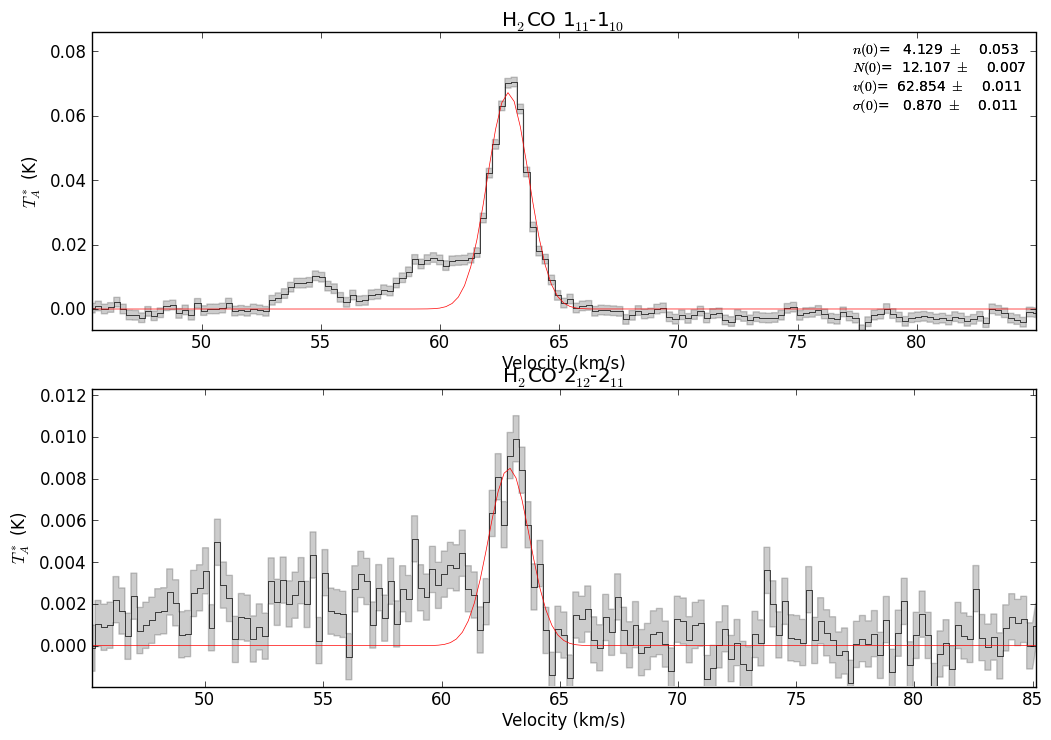
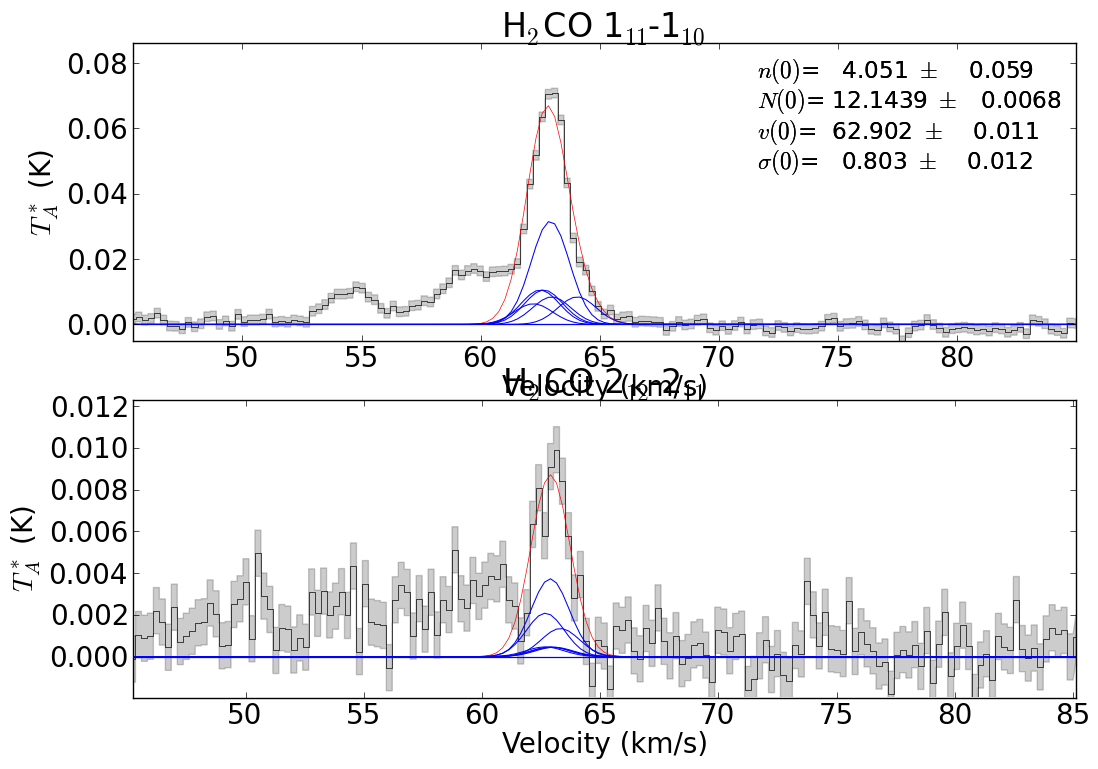
last draft of thesis?  Still need to fix major ?? bug with s233irmulti & other h2co plots

Changed region(s): [[0.0, 0.0, 1.0, 0.9946], [0.0, 0.1865, 0.1218, 0.373]]

diff --git a/h2co_lowdens.tex b/h2co_lowdens.tex
@@ -3,22 +3,22 @@
 In \citet{Ginsburg2011a}, we noted that the \formaldehyde densitometer revealed
 volume densities much higher than expected given the cloud-average densities
 from \thirteenco observations.  The densities were higher even than typical
-turbulence.  However, this argument was made on the basis of a statistical argument;
-here we attempt to demonstrate that the clumps in GMCs are of very high density
-in individual clouds.
+turbulence will allow.  However, this argument was made on the basis of a
+statistical argument; here we attempt to demonstrate that the clumps in GMCs
+are of very high density in individual clouds.
 
 In order to detect low-column-density clouds, we must use bright background
 illumination sources at 2 and 6 cm, i.e. HII regions.  There are a few dozen of
 these within the inner Galactic plane, including the sources observed in
 \citet{Ginsburg2011a} and the majority of the bright sources in the BGPS
-\citep{Ginsburg2012}.
+\citep{Ginsburg2013}.
 
 As an example case-study, we examine G43.17+0.01, also known as W49.  In the
 large survey, we observed two lines of sight towards W49, the second at
 G43.16-0.03.  Both are very bright continuum sources, and two GMCs are easily
 detected in \formaldehyde absorption and \thirteenco emission.  Figure
 \ref{fig:w49fullspec} shows the spectrum dominated by W49 itself, but with
-clear absorption components.  The continuum level subtracted from the spectra
+clear foreground absorption components.  The continuum level subtracted from the spectra
 are 73 K at 6 cm and 11 K at 2 cm for the south component, and 194 K at 6 cm
 and 28 K at 2 cm for the north component.
 
@@ -31,22 +31,23 @@ spectrum is offset by 1 K for clarity.  The GBT \twotwo spectra are multiplied
 by a factor of 9 so the smaller lines can be seen.
 }{fig:w49fullspec}{1}
 
-We focus on the ``foreground'' lines at $\sim40 \kms$ and $\sim65 \kms$, since
+We focus on the ``foreground'' lines at $\sim40$ \kms and $\sim65$ \kms, since
 they are not associated with the extremely massive W49 region.  It is difficult
 to assess the level of star formation within these clouds, since they lie
 directly along the line of sight to W49, but additional \formaldehyde spectra
 of the surrounding sources that are bright at 8-1100 \um show that they are all
-at the velocity of W49.  
+at the velocity of W49 and therefore are not associated with these foreground
+clouds.  
 
 The 40 \kms cloud is observed in its outskirts, not at the peak of the
 \thirteenco emission.  The cloud structure is vast, spanning $\sim0.6\degrees$, 
 or $\sim60$ pc at $D=2.8$ kpc \citep{Roman-Duval2009a}.  It is detected in \oneone
-absorption at all 6 locations observed in \formaldehyde, but \twotwo is only
-detected in front of the W49 HII region because of the higher signal-to-noise at
-that location.  The detected \thirteenco and \formaldehyde lines are fairly
-narrow, with \formaldehyde FWHM $\sim1.3$-$2.8$ \kms and \thirteenco widths
-from 1.8-5.9 \kms.  The \thirteenco lines are 50\% wider than the \formaldehyde
-lines.
+absorption at all 6 locations observed in \formaldehyde (Figure
+\ref{fig:40kmscloud}), but \twotwo is only detected in front of the W49 HII
+region because of the higher signal-to-noise at that location.  The detected
+\thirteenco and \formaldehyde lines are fairly narrow, with \formaldehyde FWHM
+$\sim1.3$-$2.8$ \kms and \thirteenco widths from 1.8-5.9 \kms.  The \thirteenco
+lines are 50\% wider than the \formaldehyde lines.
 
 The highest \thirteenco contours are observed as a modest IRDC, but no dust
 emission peaks are observed at 500 \um or 1.1 mm.  This is an indication that
@@ -70,14 +71,14 @@ optical depth infrared dark cloud associated with this GMC.}
 
 The \formaldehyde densitometer measurements are shown in Figure \ref{fig:h2codensg43}.
 The figures show optical depth spectra, given by the equation
-$$\tau = -\log\left(\frac{S_\nu + 2.73}{\bar{S_\nu} + 2.73}\right)$$
-where $S_\nu$ is the spectrum (with continuum included) and $\bar{S_\nu}$ is
+$$\tau = -\log\left(\frac{S_\nu + 2.73}{\bar{C_\nu} + 2.73}\right)$$
+where $S_\nu$ is the spectrum (with continuum included) and $\bar{C_\nu}$ is
 the measured continuum.
 
 \FigureTwo{figures_chH2CO/G43.16-0.03_40kms_h2codensfit.png}
 {figures_chH2CO/G43.17+0.01_40kms_h2codensfit.png}
 {Optical depth spectra of the \oneone and \twotwo lines towards the two W49
-lines of sight.  The fitted parameters, along with the statistical 1-$\sigma$
+lines of sight, G43.16 (left) and G43.17 (right).  The fitted parameters, along with the statistical 1-$\sigma$
 errors, are shown in the legend.  The optical depth ratio falls in a regime
 where temperature has very little effect and there is no degeneracy between low
 and high densities \citep[see Figure 2 of][]{Ginsburg2011a}.  For the right line,
@@ -86,11 +87,12 @@ the density distribution, the measured density remains unchanged \citep[see
 Figure 3 of][]{Ginsburg2011a}.}
 {fig:h2codensg43}{1}
 
-The density measurements are very precise, with $n\approx2.11\times10^4 \pm
-0.17\ee{4}$ \percc and $n\approx 1.98\times10^4 \pm 0.32\ee{4}$ \percc for
+The density measurements are very precise, with $n\approx1.56\times10^4 \pm
+0.14\ee{4}$ \percc and $n\approx 1.98\times10^4 \pm 0.32\ee{4}$ \percc for
 G43.17+0.01 and G43.16-0.03 respectively.  At this level of precision, the 
 density measurements are dominated by systematics - especially gas temperature
-and collision rate uncertainties - which limit the accuracy to $\sim50\%$
+and collision rate uncertainties - which limit the accuracy to $\sim50\%$ using
+the \citet{Green1991} rates
 \citep{Zeiger2010}.  Nonetheless, the density is much higher than the
 \thirteenco-measured cloud-average density $n\approx 400$ \percc
 \citep[for cloud GRSMC\_G043.04-00.11;][]{Roman-Duval2010a}, with
@@ -98,7 +100,7 @@ $n_{\formaldehyde}/n_{\thirteenco} \approx 50$.
 
 Since the W49 line of sight is clearly on the outskirts of the cloud, not
 through its core, such a high density is unlikely to be an indication that
-this line of sight corresponds to a centrally condensed density peak.  Using
+this line of sight corresponds to a centrally condensed density peak (e.g., a core).  Using
 Figure 4 of \citet{Ginsburg2011a}, we can `turbulence-correct' the density
 measurements, but even in the most extreme case with a turbulent density
 distribution lognormal width $\sigma_s = 1.5$, the correction is only a factor
@@ -164,5 +166,5 @@ the gas above $n>10^4$ \percc is not in free-fall.
 % functions of column density that have recently become popular
 % \citep[e.g][]{Kainulainen2009}.
 
-\input{solobib}
+%\input{solobib}
 \end{document}

diff --git a/h2co_maps.tex b/h2co_maps.tex
@@ -1,4 +1,4 @@
-%\input{preface}
+\input{preface}
 \section{\formaldehyde Mapping}
 We were lucky enough to be awarded \emph{double} the time we asked for on the GBT,
 allowing us to observe large areas in mapping mode.  
@@ -47,7 +47,7 @@ S233IR, but its neighboring region G173.58+2.45 is also a well-studied proto-clu
 Unlike S233IR, which has a B1/B2 10 \msun star that is probably still accreting,
 G173.58 contains no massive stars and has an upper mass limit $M\lesssim4 \msun$
 \citep{Shepherd2002}.  The \formaldehyde observations reveal that the density in this
-clump is $\sim10^{3.6} \percc$, substantially less than the expected $n\sim10^5 \percc$
+clump is $\sim10^{3.6}$ \percc, substantially less than the expected $n\sim10^5$ \percc
 in the massive-star forming S233IR.
 
 The BGPS data show this difference as well, but less strikingly.  In the BGPS
@@ -77,19 +77,19 @@ to be flawed.
 
 \Figure{figures_chH2CO/S233IR_multipanel}
 {The S233IR / IRAS 05358+3543 region and its neighbor G173.58+2.45.
-{\it Top left:} The \formaldehyde density map covering densities
+\textit{Top left:} The \formaldehyde density map covering densities
 $10^2 \percc<n<10^5 \percc$ from grey to green.  The grey areas show
 regions of low density ($n<10^3$ \percc), while green show high-density
-regions ($n\gtrsim10^3.5$ \percc).  The `hole' at the peak of the contours
+regions ($n\gtrsim10^{3.5}$ \percc).  The `hole' at the peak of the contours
 is likely very high density, $n>10^5$ \percc.
-{\it Top center: } The \formaldehyde \oneone absorption map.
-{\it Top right: } The \formaldehyde \twotwo absorption map.
+\textit{Top center: } The \formaldehyde \oneone absorption map.
+\textit{Top right: } The \formaldehyde \twotwo absorption map.
 Note the lack of absorption at the contour peak: this is probably \twotwo emission
 filling in \twotwo absorption, indicating a high $n\gtrsim10^5$ \percc density.
-{\it Bottom left: } CO 3-2 map.
-{\it Bottom center: } The BGPS v2.0 1.1 mm emission map, with contours at 0.2, 1.0, and 3.0 Jy.
+\textit{Bottom left: } CO 3-2 peak line brightness map.
+\textit{Bottom center: } The BGPS v2.0 1.1 mm emission map, with contours at 0.2, 1.0, and 3.0 Jy.
 These contours are shown on all of the other maps for reference.
-{\it Bottom right: } SO $5_6-4_5$ map.  This line has a very high critical density $n\sim3.5\ee{6}$ \percc
+\textit{Bottom right: } SO $5_6-4_5$ map.  This line has a very high critical density $n\sim3.5\ee{6}$ \percc
 and an upper level energy $T_U=35$ K.
 Its morphology, with a hole at the peak of the dust emission, backs the claim that the density is highest
 in the area around the dust peak.}
@@ -104,7 +104,7 @@ continuum emission, so no truly suitable `off' position was found within the
 survey data.  Similarly, \formaldehyde is ubiquitous across the region, so it
 was necessary to `mask out' the absorption lines when building an off position.
 This was done by interpolating across the line-containing region with a
-polynomial fit (Figure \ref{fig:h2comask}.  
+polynomial fit (Figure \ref{fig:h2comask}).  
 
 \Figure{figures_chH2CO/a2705.20120915.b0s1g0.00000_offspectra.png}
 {An example of the \formaldehyde line masking procedure for building an Off
@@ -163,7 +163,7 @@ sensitivity allows us to place a modest upper limit on the gas density, with
 $3-\sigma$ upper limits $\lesssim10^{4.3}$ \percc (but the most likely
 densities are $10^2 < n < 10^4$ \percc).  Figure \ref{fig:w51MCMCcompare} shows
 a particular model for a spectrum that is especially unconstrained.  The
-\oneone/\twotwo optical depth in this object is $\sim10-20$, indicating that
+\oneone/\twotwo optical depth ratio in this object is $\sim10-20$, indicating that
 the volume density must be low.
 
 \FigureTwo{figures_chH2CO/MCMC_DensColplot_67_64.png}{figures_chH2CO/spec67_64_bestfit_MCMC.png}
@@ -192,4 +192,4 @@ in the system.  Because this is foreground gas, that high-density gas
 {fig:w51hiispectra}{1}
 
 %\input{solobib}
-%\end{document}
+\end{document}

diff --git a/ch_boundhii.tex b/ch_boundhii.tex
@@ -3,8 +3,6 @@
 \chapter{Bound HII regions and Young Massive Protoclusters}
 \label{ch:ympc}
 
-
-
 \section{Preface}
 During a visit from Eli Bressert, we discussed methods of identifying the
 precursors to young massive clusters.  A central idea was that the primary
@@ -811,16 +809,17 @@ starting point for these observations.
 In order to get a complete census of massive proto-clusters in the Galactic
 plane, it is necessary to examine the southern plane as well.
 \citet{Urquhart2013a} began this examination using ATLASGAL data and identified
-6 new candidates in the southern sky.  In principle, this indicates either some
-incompleteness in the BGPS or a genuinely higher cluster formation rate in the
-southern sky (which, with such small numbers, is easily consistent with uniform
-sampling from a disk distribution).
+6 new candidates in the southern sky.  In principle, the detectin of more
+sources in the South indicates either some incompleteness in the BGPS or a
+genuinely higher cluster formation rate in the southern sky (which, with such
+small numbers, is easily consistent with uniform sampling from a disk
+distribution).
 
 However, we note that two of the candidates in \citet{Urquhart2013a} are
 assigned the wrong kinematic distance - they are placed at the far distance
-when strong evidence puts them at the near.
+when strong evidence exists putting them instead at the near.
 
-\subimport{/Users/adam/work/BoundHII/distance_massiveclumps/}{standalone}
+\subimport{/Users/adam/work/boundhii/distance_massiveclumps/}{solo}
 
 \input{solobib}
 \end{document}

diff --git a/ch_h2colarge.tex b/ch_h2colarge.tex
@@ -11,8 +11,9 @@ and the GBT would be productive.  We therefore selected 400 pointings in the
 Arecibo-accessible declination range, 137 of which are in the outer galaxy
 ($172<\ell<207$) and the others in the inner galaxy ($31<\ell<65$).
 
-The selected sources included \emph{all} peaks in the outer galaxy regions,
-including the newly observed regions from the BGPS \vtwo survey.
+The selected sources included \emph{all} 1.1 mm peaks in the outer galaxy
+regions of the BGPS, including the newly observed regions from the \vtwo
+survey.
 
 As of the thesis defense, all of the data for the large survey has been reduced,
 but the analysis and interpretation is ongoing.  We report here only initial
@@ -26,9 +27,9 @@ queued for observation.
 % The following section describes portions of the \formaldehyde observations focusing
 % on the outer galaxy in detail.
 
-\subimport{/Users/adam/work/h2co/outergal/paper/}{h2co_outergal.tex}
-\subimport{./}{h2co_maps.tex}
-\subimport{./}{h2co_lowdens.tex}
+\subimport{/Users/adam/work/h2co/outergal/paper/}{h2co_outergal}
+\subimport{/Users/adam/work/thesis/}{h2co_maps}
+\subimport{/Users/adam/work/thesis/}{h2co_lowdens}
 
 \input{solobib}
 \end{document}

diff --git a/ch_software.tex b/ch_software.tex
@@ -12,8 +12,8 @@ re-use of archival data.  The JCMT and STSCI have been exceptions to this rule
 of producing useable archive data products.  Similarly, the NRAO has recently
 taken on a greater level of software support for ALMA and EVLA products,
 producing fully pipeline-reduced data for observers.  Unfortunately, the NOAO
-has instead cut funding to their software developers, leaving IRAF as a
-relatively unsupported hulk of a code that everyone still uses. 
+has instead cut funding to their software developers, leaving IRAF as an
+under-supported hulk of a code that everyone still uses. 
 
 In this section, I summarize the codes I've written primarily for performing
 reduction of data not supported by any standard reduction software.  The text

diff --git a/macros.tex b/macros.tex
@@ -191,6 +191,17 @@
 \end{figure*}
 }
 
+\def\FigureTwoAA#1#2#3#4#5#6{
+\begin{figure*}[htp]
+\subfigure[]{ \includegraphics[scale=#5,width=#6]{#1} }
+\\
+\subfigure[]{ \includegraphics[scale=#5,width=#6]{#2} }
+\caption{#3}
+\label{#4}
+\end{figure*}
+}
+
+
 \def\TallFigureTwo#1#2#3#4#5#6{
     \FigureTwo{#1}{#2}{#3}{#4}{#5}
     }
